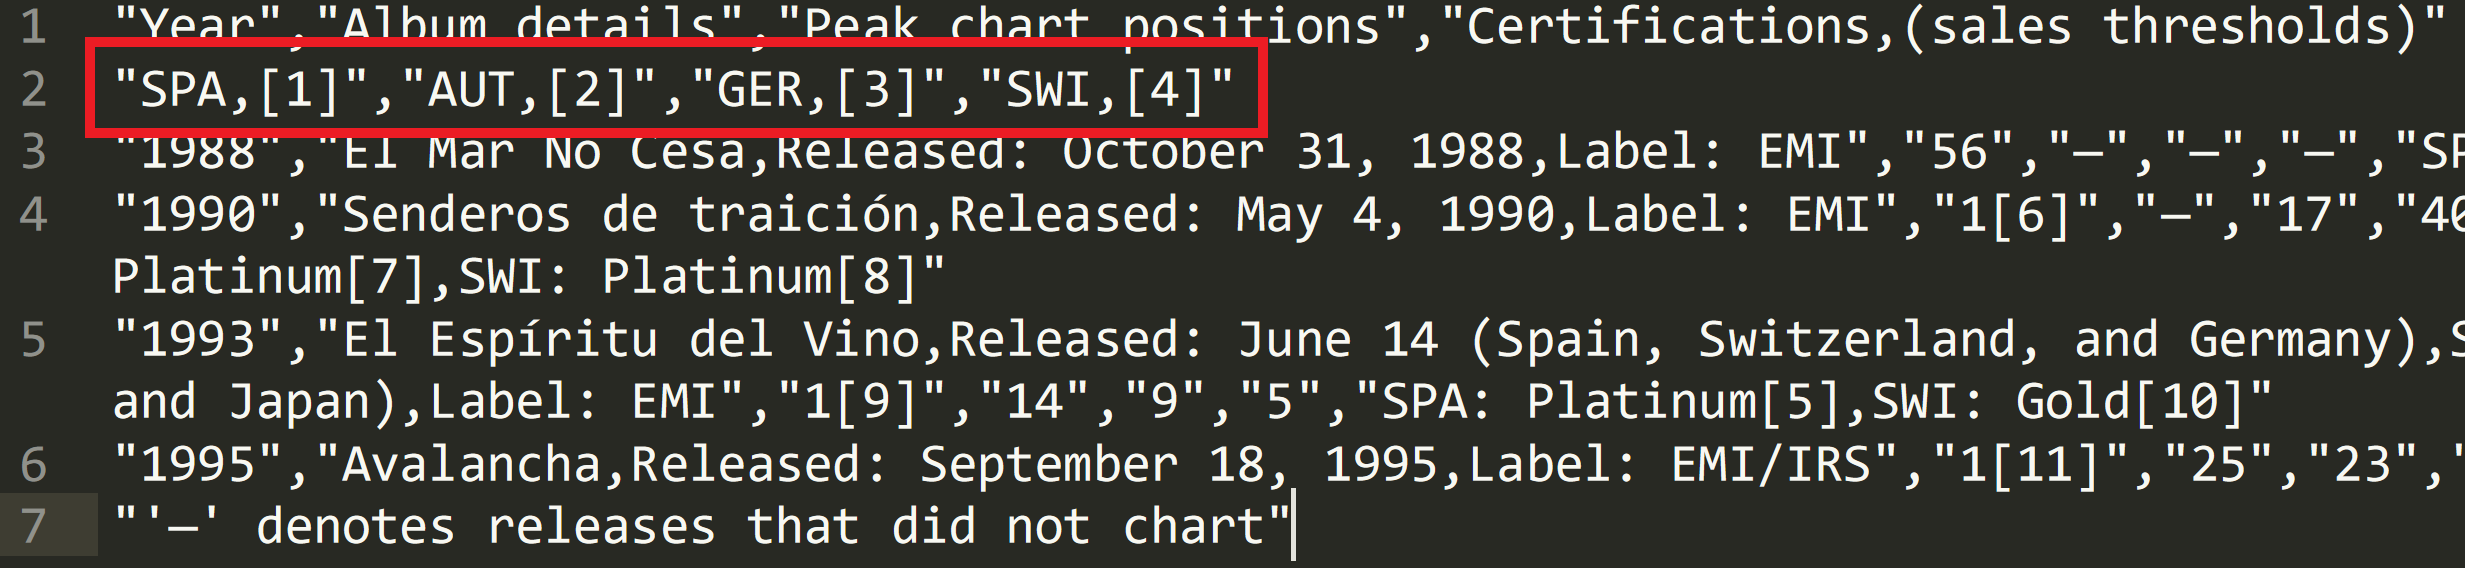
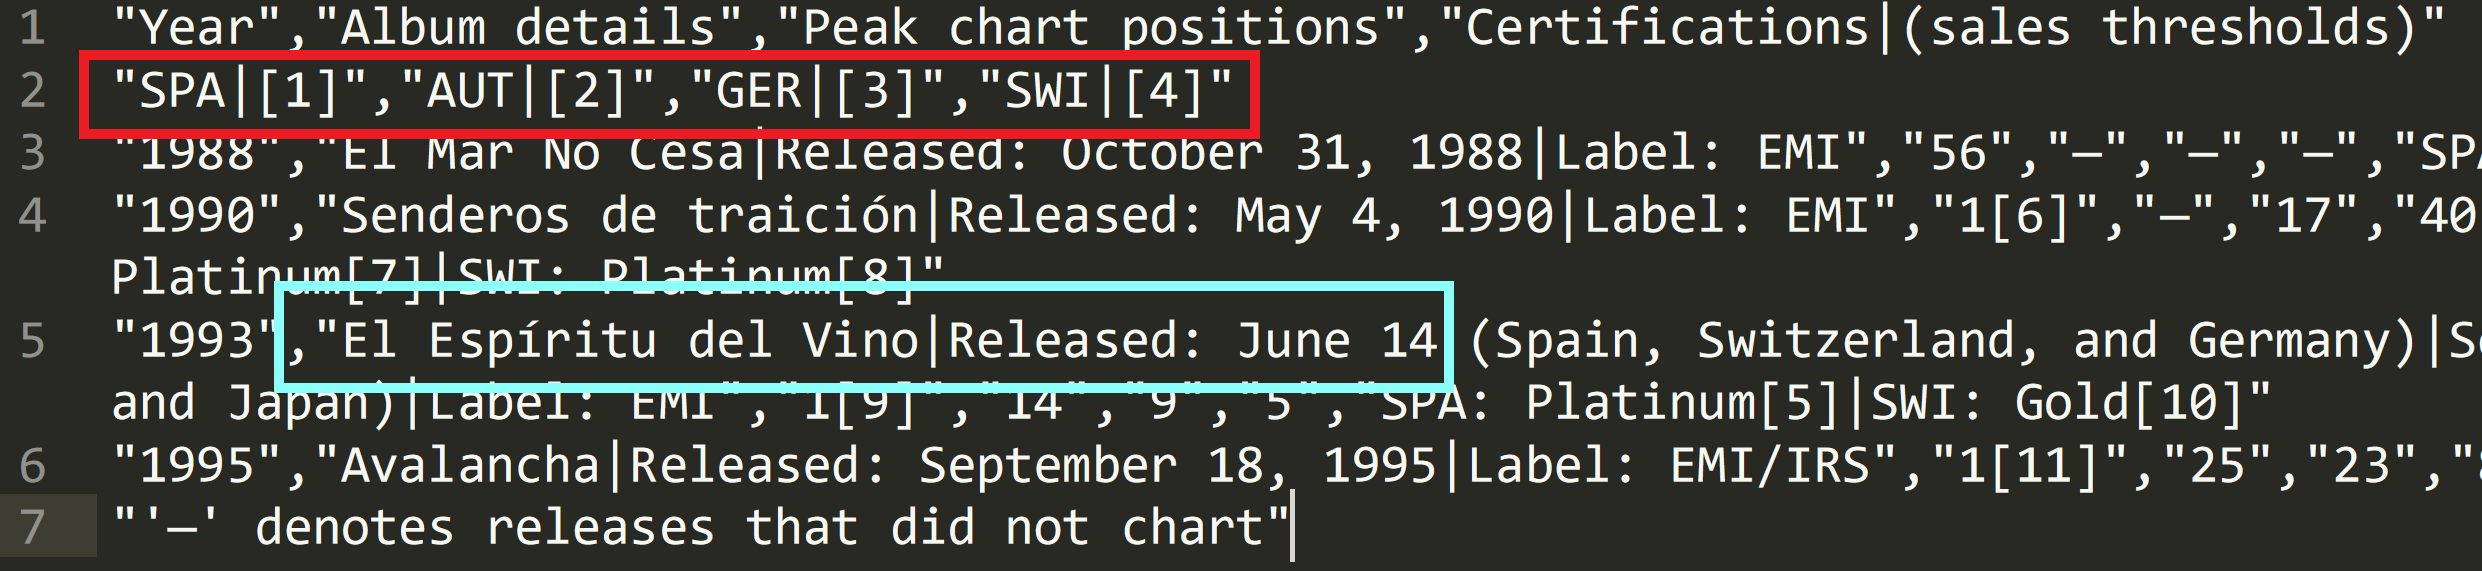
Screenshots

diff --git a/wiki-table.js b/wiki-table.js
@@ -69,7 +69,7 @@ javascript: (function() {
                     let text_array = text.split("\n");
 
                     if (text_array.length > 1) {
-                        text = text_array.join(",");
+                        text = text_array.join("|");
                     }
                     return '"' + text + '"';
                 });
